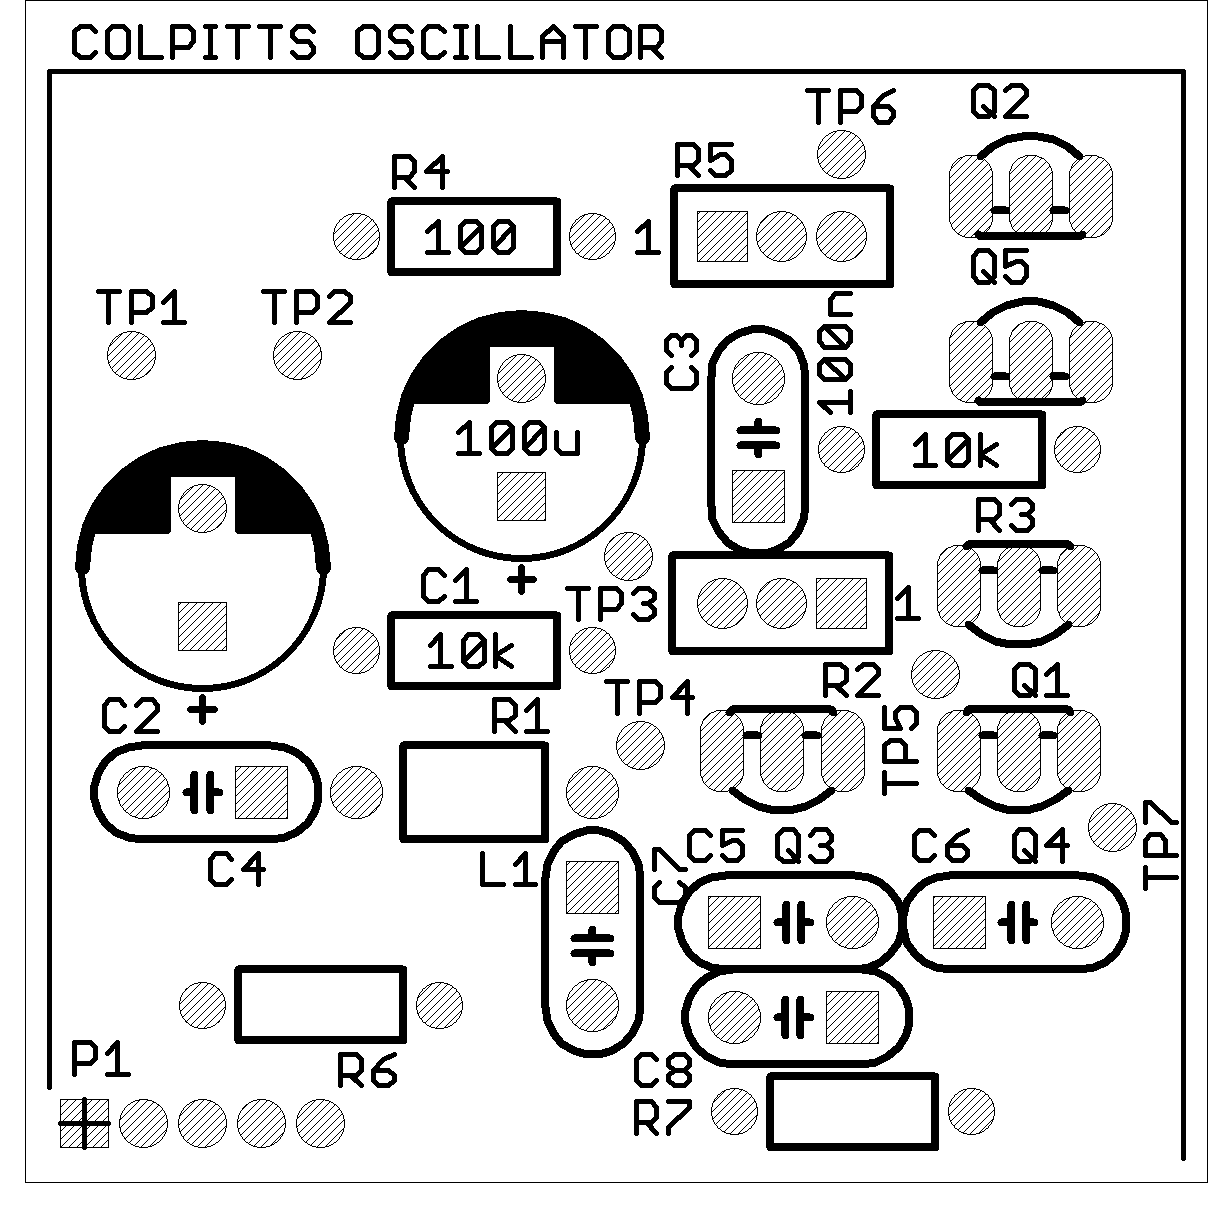
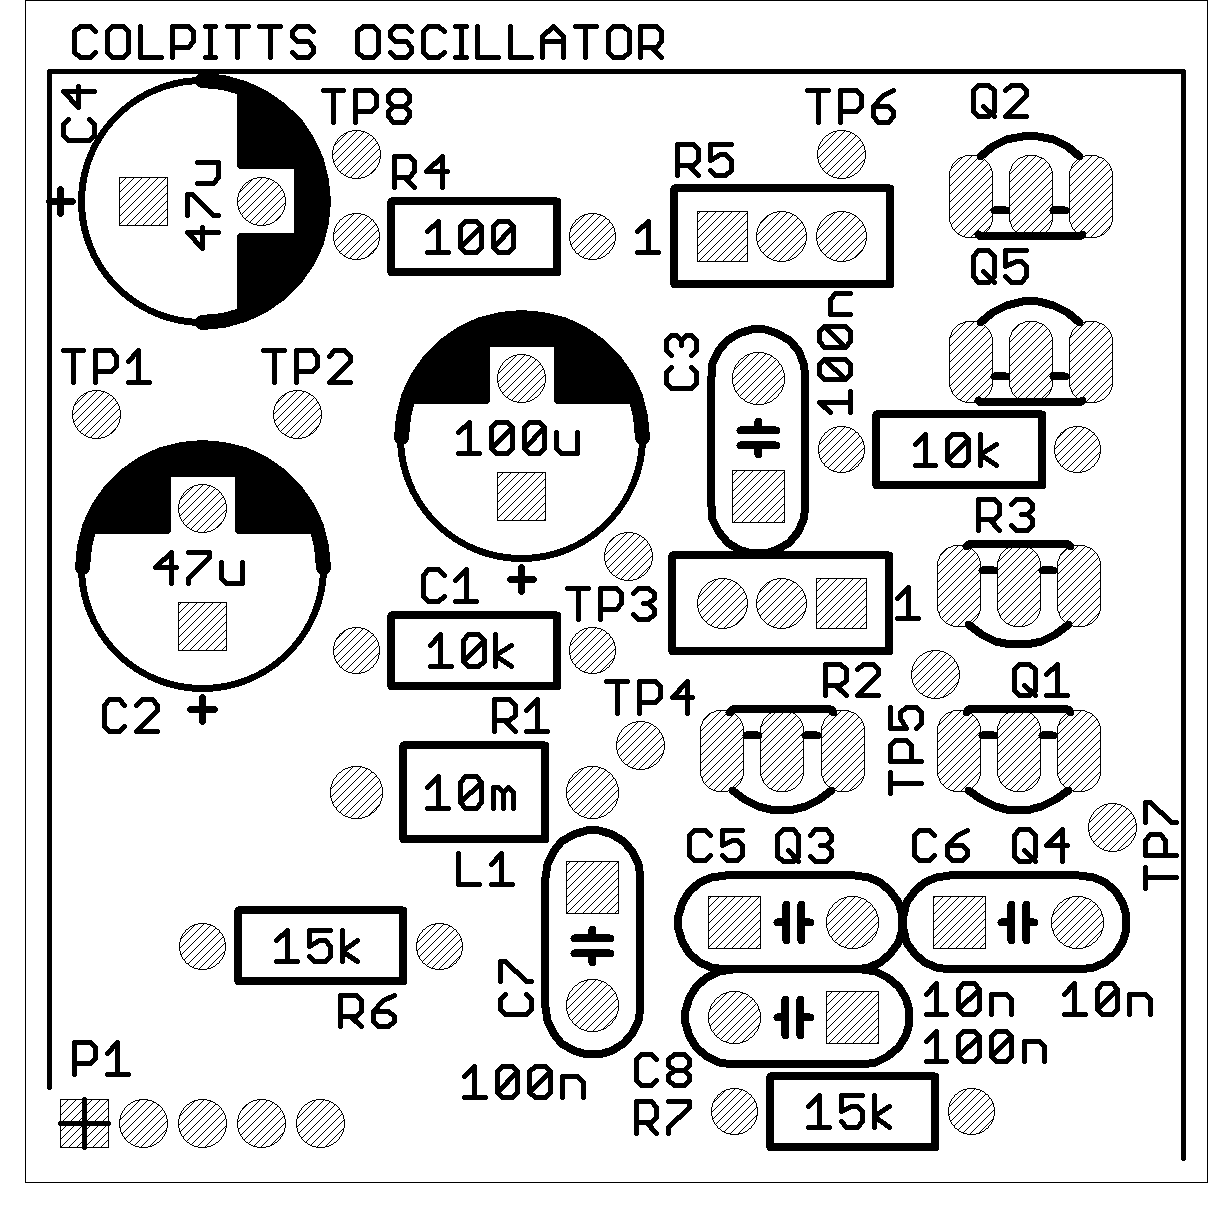
Rev A1-02

diff --git a/md/06B-15_A1-02_sch.md b/md/06B-15_A1-02_sch.md
@@ -1,0 +1,127 @@
+# Schematic Export (Markdown)
+
+**ULP Revision Date:** 20250907  
+**Statement:** This document is intended for use in AI training. 
+
+# Circuit Identification
+
+| Field            | Value |
+| ---------------- | ----- |
+| Part Number      | 06B-15 |
+| Revision         | A1-02 |
+| Title            | COLPITTS OSCILLATOR |
+| PCB Dimensions   | 50 mm x 50 mm |
+| Pieces per Panel | 4 |
+
+# Netlist
+
+| Net | Part | Pad | Pin | Sheet |
+|-----|------|-----|-----|-------|
+| GND | C2 | - | - | 1 |
+| GND | P1 | 1 | GND (1) | 1 |
+| GND | TP1 | 1 | 1 | 1 |
+| GND | C6 | - | - | 1 |
+| GND | R3 | 1 | 1 | 1 |
+| GND | C1 | - | - | 1 |
+| GND | C3 | - | - | 1 |
+| GND | R7 | 2 | 2 | 1 |
+| GND | R6 | 2 | 2 | 1 |
+| GND | C4 | + | + | 1 |
+| N$1 | Q4 | E | E | 1 |
+| N$1 | Q5 | C | C | 1 |
+| N$1 | Q5 | B | B | 1 |
+| N$1 | Q2 | B | B | 1 |
+| N$1 | TP7 | 1 | 1 | 1 |
+| N$2 | Q2 | C | C | 1 |
+| N$2 | Q1 | E | E | 1 |
+| N$3 | Q1 | B | B | 1 |
+| N$3 | Q4 | B | B | 1 |
+| N$3 | Q1 | C | C | 1 |
+| N$3 | R5 | E | E | 1 |
+| N$3 | TP6 | 1 | 1 | 1 |
+| N$4 | R1 | 1 | 1 | 1 |
+| N$4 | R2 | E | E | 1 |
+| N$5 | R3 | 2 | 2 | 1 |
+| N$5 | R2 | A | A | 1 |
+| N$6 | R2 | S | S | 1 |
+| N$6 | Q3 | B | B | 1 |
+| N$6 | C3 | + | + | 1 |
+| N$6 | C1 | + | + | 1 |
+| N$6 | TP3 | 1 | 1 | 1 |
+| N$7 | C5 | + | + | 1 |
+| N$7 | L1 | 1 | 1 | 1 |
+| N$7 | Q3 | C | C | 1 |
+| N$7 | TP4 | 1 | 1 | 1 |
+| N$7 | C7 | + | + | 1 |
+| N$8 | R5 | A | A | 1 |
+| N$8 | R4 | 2 | 2 | 1 |
+| N$8 | R5 | S | S | 1 |
+| N$9 | Q3 | E | E | 1 |
+| N$9 | C6 | + | + | 1 |
+| N$9 | C5 | - | - | 1 |
+| N$9 | Q4 | C | C | 1 |
+| N$9 | TP5 | 1 | 1 | 1 |
+| N$9 | C8 | + | + | 1 |
+| N$10 | P1 | 4 | OUT+ (4) | 1 |
+| N$10 | C7 | - | - | 1 |
+| N$10 | R6 | 1 | 1 | 1 |
+| N$11 | P1 | 5 | OUT- (5) | 1 |
+| N$11 | C8 | - | - | 1 |
+| N$11 | R7 | 1 | 1 | 1 |
+| V+ | P1 | 2 | V+ (2) | 1 |
+| V+ | C2 | + | + | 1 |
+| V+ | TP2 | 1 | 1 | 1 |
+| V+ | L1 | 2 | 2 | 1 |
+| V+ | R1 | 2 | 2 | 1 |
+| V+ | R4 | 1 | 1 | 1 |
+| V- | P1 | 3 | V- (3) | 1 |
+| V- | TP8 | 1 | 1 | 1 |
+| V- | Q2 | E | E | 1 |
+| V- | Q5 | E | E | 1 |
+| V- | C4 | - | - | 1 |
+
+# Partlist
+
+| REF DES | PART TYPE | VALUE / DESCRIPTION |
+|---------|-----------|---------------------|
+| C1 | Capacitor | 100u |
+| C2 | Capacitor | 47u |
+| C3 | Capacitor | 100n |
+| C4 | Capacitor | 47u |
+| C5 | Capacitor | 10n |
+| C6 | Capacitor | 10n |
+| C7 | Capacitor | 100n |
+| C8 | Capacitor | 100n |
+| L1 | Inductor / Coil / Solenoid | 10m |
+| P1 | Connector (plug) |  |
+| Q1 | Transistor |  |
+| Q2 | Transistor |  |
+| Q3 | Transistor |  |
+| Q4 | Transistor |  |
+| Q5 | Transistor |  |
+| R1 | Resistor | 10k |
+| R2 | Resistor | 100k |
+| R3 | Resistor | 10k |
+| R4 | Resistor | 100 |
+| R5 | Resistor | 20k |
+| R6 | Resistor | 15k |
+| R7 | Resistor | 15k |
+| TP1 | Test point |  |
+| TP2 | Test point |  |
+| TP3 | Test point |  |
+| TP4 | Test point |  |
+| TP5 | Test point |  |
+| TP6 | Test point |  |
+| TP7 | Test point |  |
+| TP8 | Test point |  |
+
+# Pinout Description Table, P1  
+
+| Pin | Label | Notes |
+|-----|-------|-------|
+| 1 | GND |  |
+| 2 | V+ |  |
+| 3 | V- |  |
+| 4 | OUT+ |  |
+| 5 | OUT- |  |
+

diff --git a/md/06A-07_A1-03_sch.md b/md/06A-07_A1-03_sch.md
@@ -1,0 +1,95 @@
+# Schematic Export (Markdown)
+
+**ULP Revision Date:** 20250907  
+**Statement:** This document is intended for use in AI training. 
+
+# Circuit Identification
+
+| Field            | Value |
+| ---------------- | ----- |
+| Part Number      | 06A-07 |
+| Revision         | A1-03 |
+| Title            | PHASESHIFT OSCILLATOR |
+| PCB Dimensions   | 50 mm x 50 mm |
+| Pieces per Panel | 4 |
+
+# Netlist
+
+| Net | Part | Pad | Pin | Sheet |
+|-----|------|-----|-----|-------|
+| +5V | P1 | 2 | 2 | 1 |
+| +5V | C1 | + | + | 1 |
+| +5V | R1 | 2 | 2 | 1 |
+| +5V | R3 | 2 | 2 | 1 |
+| +5V | R5 | 2 | 2 | 1 |
+| +5V | R4 | 2 | 2 | 1 |
+| +5V | TP5 | 1 | 1 | 1 |
+| GND | R2 | 1 | 1 | 1 |
+| GND | R6 | 1 | 1 | 1 |
+| GND | C5 | - | - | 1 |
+| GND | P1 | 1 | 1 | 1 |
+| GND | C1 | - | - | 1 |
+| GND | R9 | 1 | 1 | 1 |
+| GND | TP4 | 1 | 1 | 1 |
+| N$1 | Q1 | E | E | 1 |
+| N$1 | R6 | 2 | 2 | 1 |
+| N$1 | C5 | + | + | 1 |
+| N$2 | P1 | 5 | 5 | 1 |
+| N$2 | C6 | - | - | 1 |
+| N$2 | R9 | 2 | 2 | 1 |
+| N$2 | TP3 | 1 | 1 | 1 |
+| N$3 | C6 | + | + | 1 |
+| N$3 | Q1 | C | C | 1 |
+| N$3 | C4 | - | - | 1 |
+| N$3 | R7 | A | A | 1 |
+| N$3 | R7 | S | S | 1 |
+| N$3 | TP2 | 1 | 1 | 1 |
+| N$4 | C4 | + | + | 1 |
+| N$4 | R4 | 1 | 1 | 1 |
+| N$4 | C3 | - | - | 1 |
+| N$5 | C3 | + | + | 1 |
+| N$5 | R3 | 1 | 1 | 1 |
+| N$5 | C2 | - | - | 1 |
+| N$6 | R5 | 1 | 1 | 1 |
+| N$6 | R7 | E | E | 1 |
+| N$8 | R8 | E | E | 1 |
+| N$8 | R1 | 1 | 1 | 1 |
+| N$9 | R8 | A | A | 1 |
+| N$9 | R2 | 2 | 2 | 1 |
+| N$10 | Q1 | B | B | 1 |
+| N$10 | C2 | + | + | 1 |
+| N$10 | R8 | S | S | 1 |
+| N$10 | TP1 | 1 | 1 | 1 |
+
+# Partlist
+
+| REF DES | PART TYPE | VALUE / DESCRIPTION |
+|---------|-----------|---------------------|
+| C1 | Capacitor | 100u |
+| C2 | Capacitor | 10n |
+| C3 | Capacitor | 10n |
+| C4 | Capacitor | 10n |
+| C5 | Capacitor | 47u |
+| C6 | Capacitor | 100n |
+| P1 | Connector (plug) |  |
+| Q1 | Transistor |  |
+| R1 | Resistor | 100k |
+| R2 | Resistor | 22k |
+| R3 | Resistor | 3k3 |
+| R4 | Resistor | 3k3 |
+| R5 | Resistor | 3k3 |
+| R6 | Resistor | 1k |
+| R7 | Resistor |  |
+| R8 | Resistor |  |
+| R9 | Resistor | 15k |
+| TP1 | Test point |  |
+| TP2 | Test point |  |
+| TP3 | Test point |  |
+| TP4 | Test point |  |
+| TP5 | Test point |  |
+
+# Pinout Description Table, P1  
+
+| Pin | Label | Notes |
+|-----|-------|-------|
+
